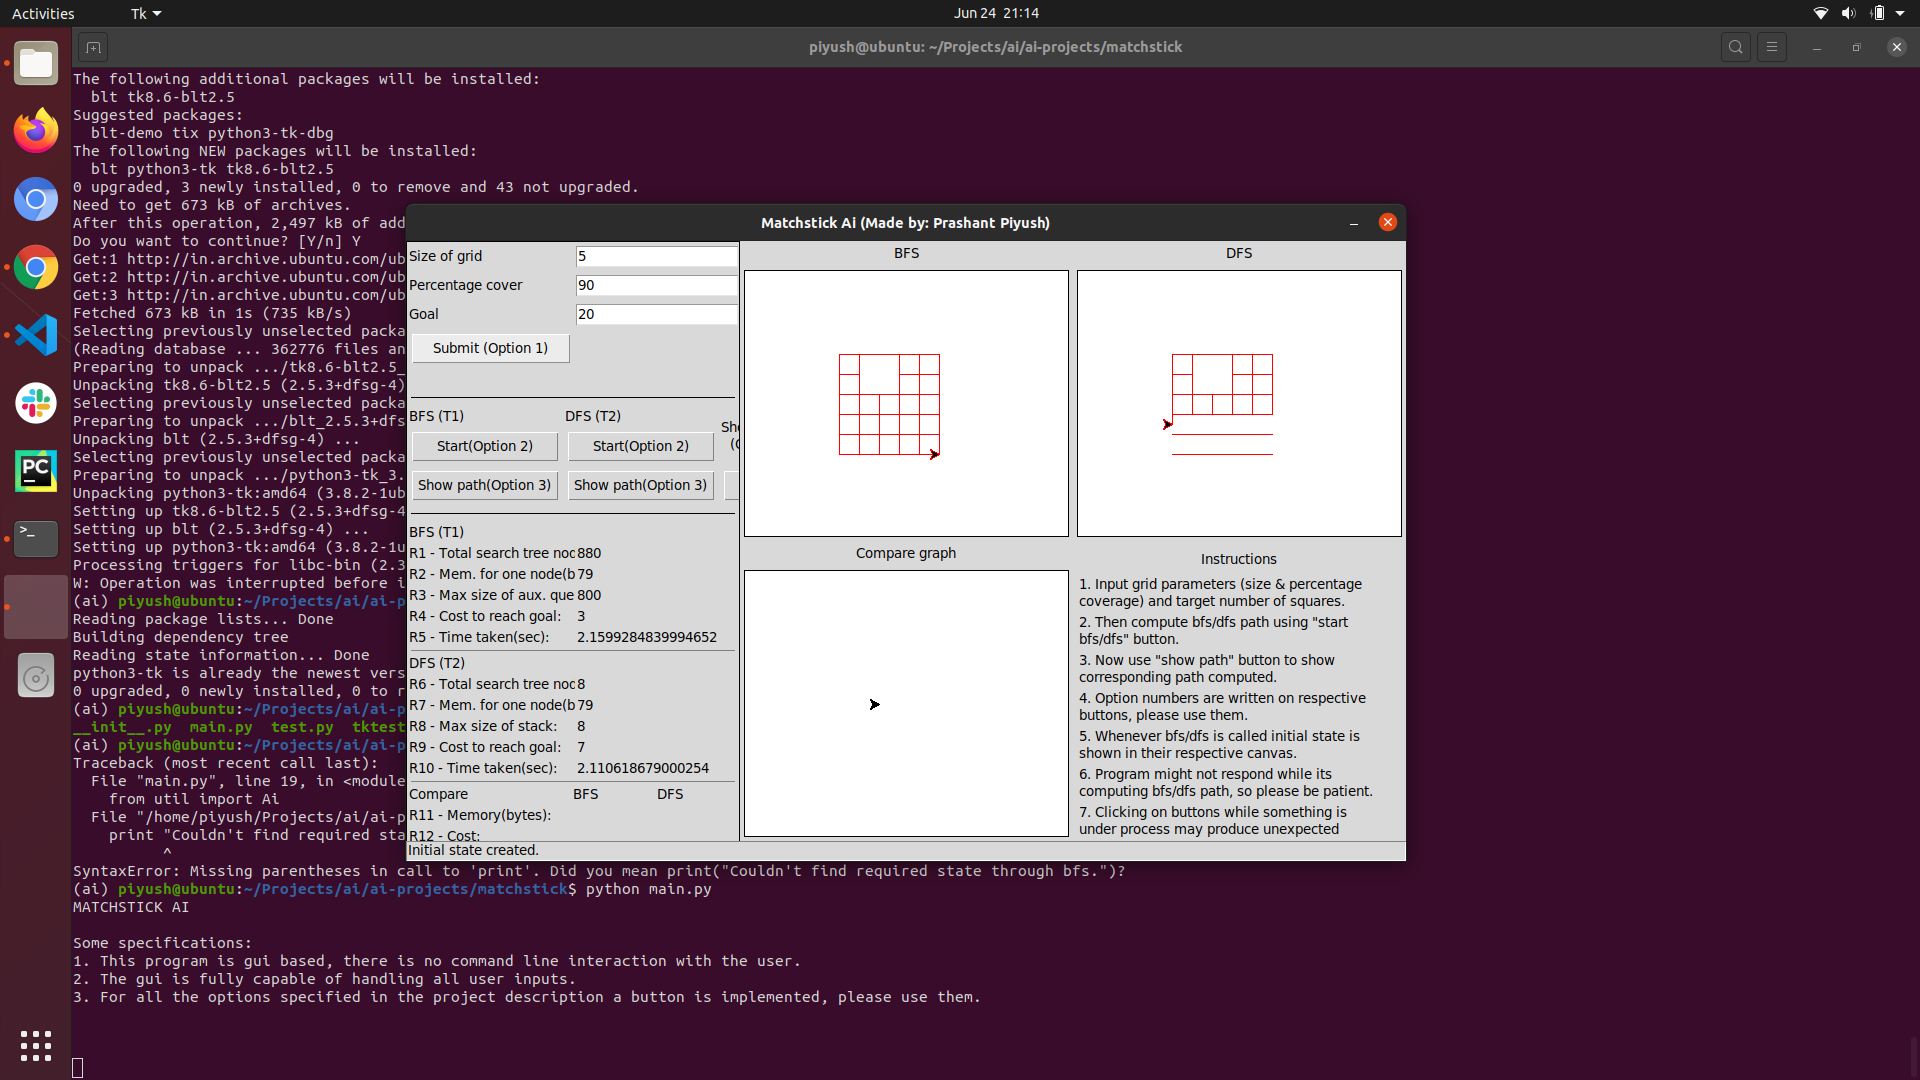
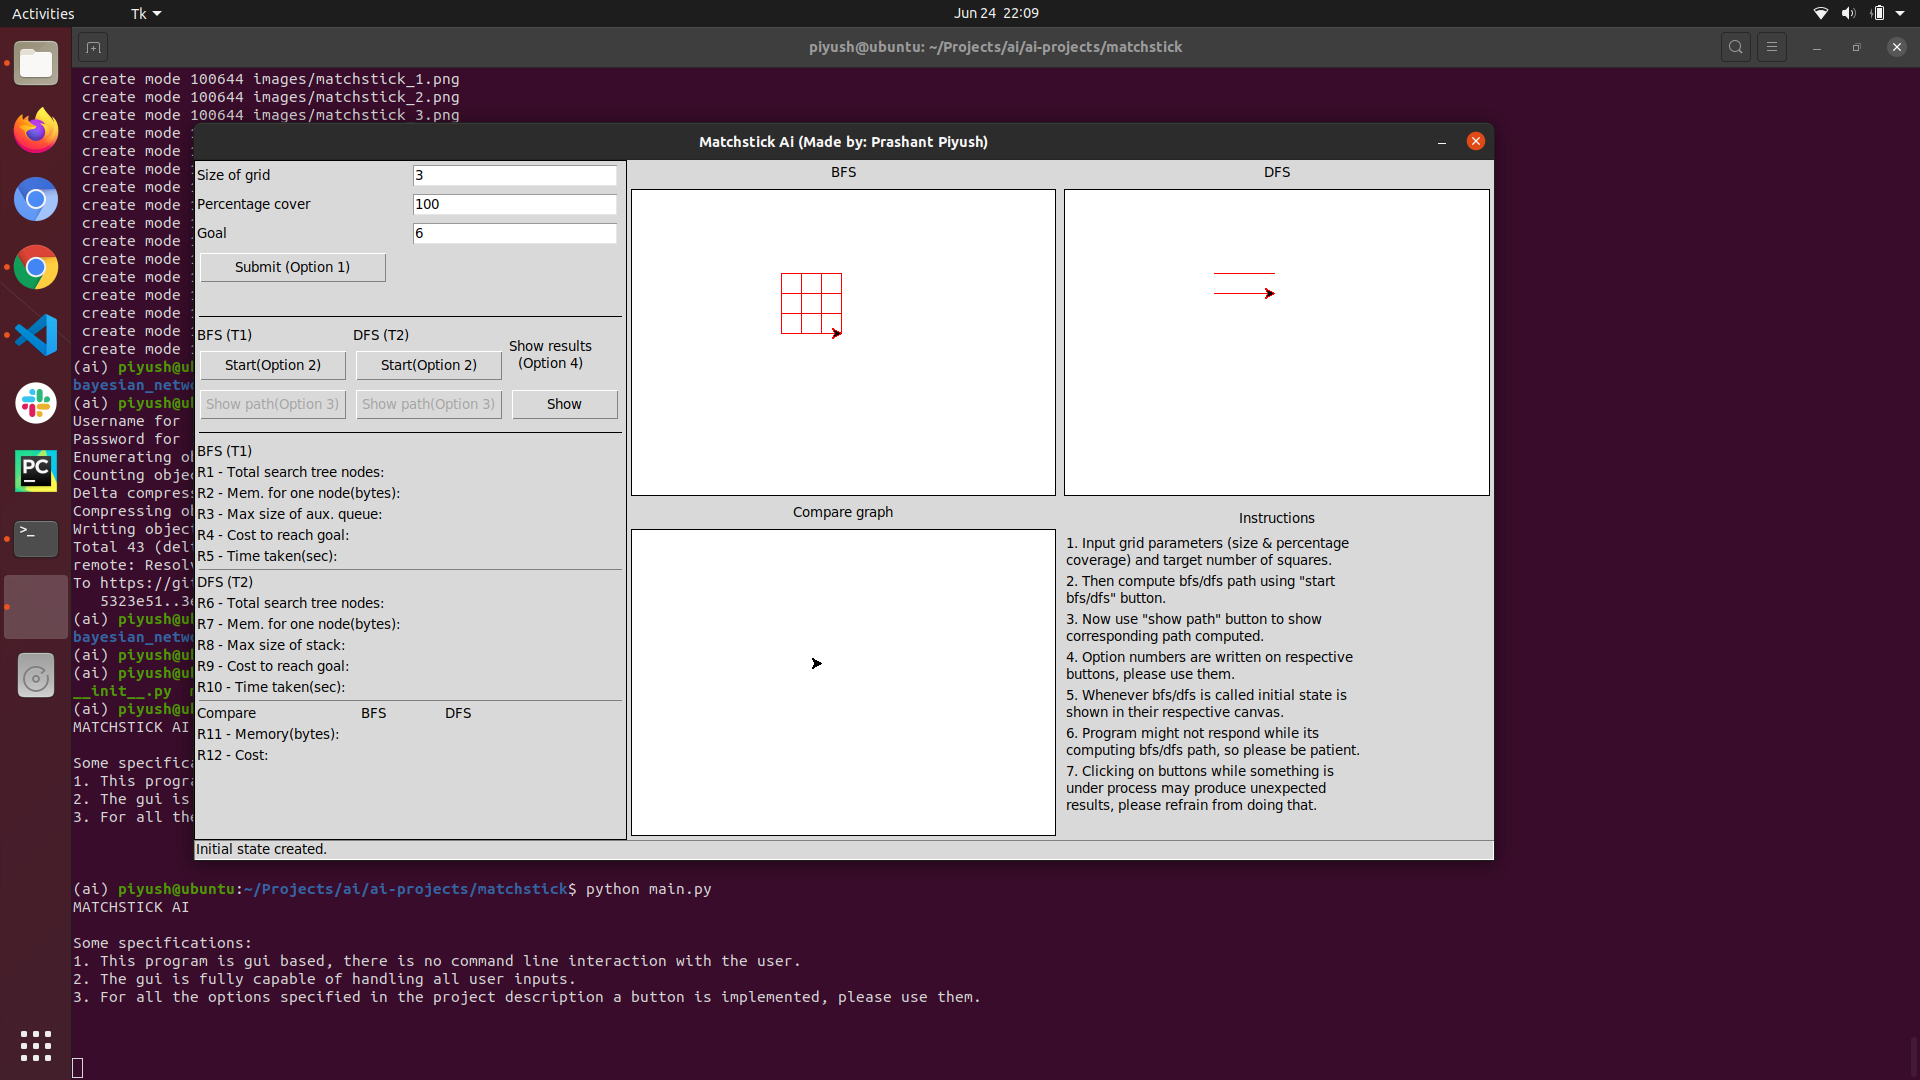
Updating matchstick images

Changed region(s): [[0.0312, 0.0611, 0.7812, 0.825]]

diff --git a/matchstick/main.py b/matchstick/main.py
@@ -19,8 +19,8 @@ from itertools import product
 from util import Ai
 
 
-app_width = 1600
-app_height = 900
+app_width = 1300
+app_height = 700
 
 pen = None
 
